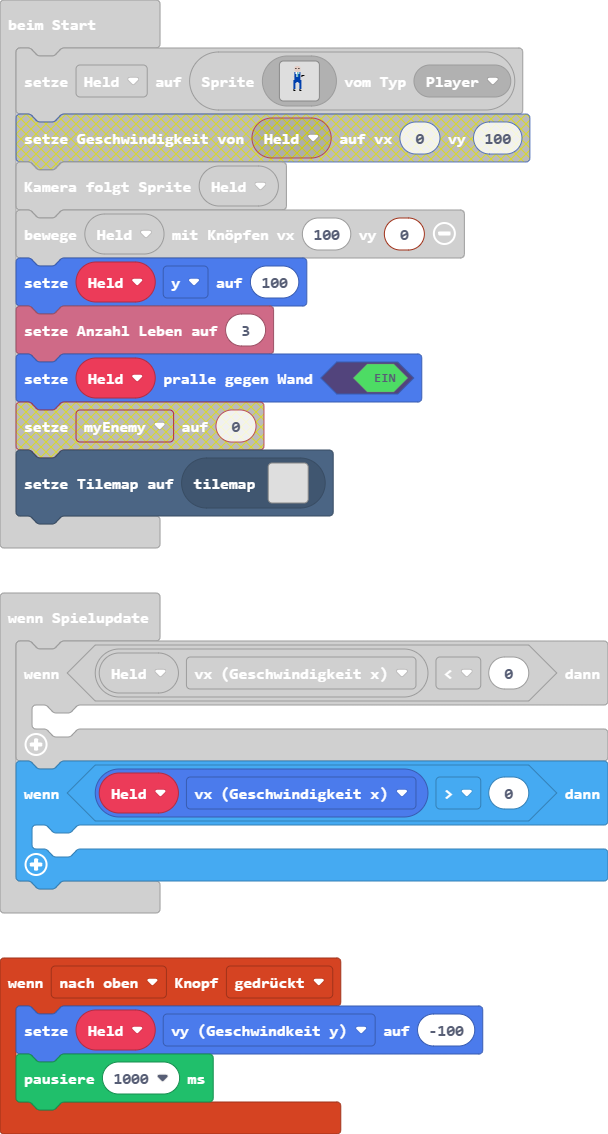
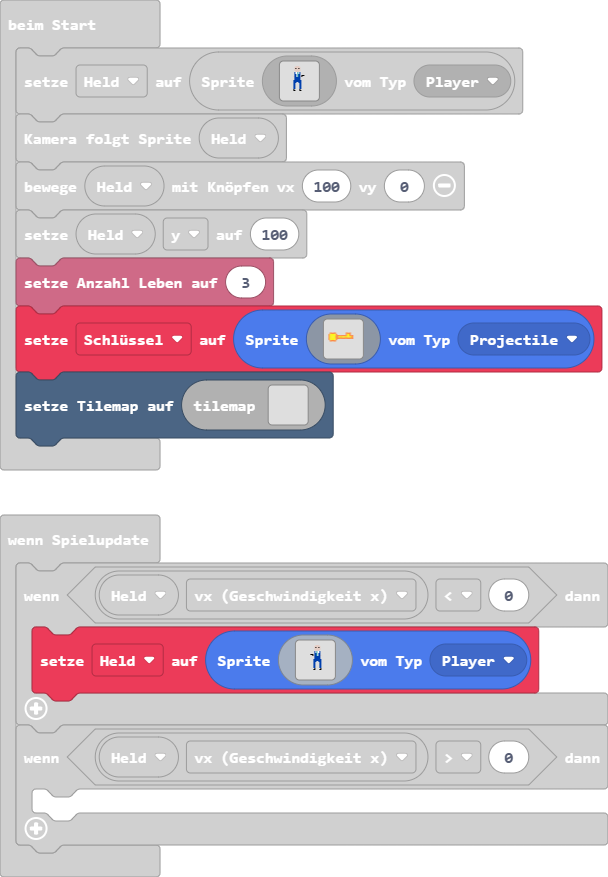
Aktualisiere main.blocks, main.ts, tilemap.g.jres, tilemap.g.ts

diff --git a/tilemap.g.ts b/tilemap.g.ts
@@ -218,6 +218,82 @@ namespace myTiles {
 . . . . . . . . . . . . . . . . 
 . . . . . . . . . . . . . . . . 
 `, [myTiles.transparency16], TileScale.Sixteen);
+            case "Level12":
+            case "Level12":return tiles.createTilemap(hex`1000100000000000000000000000000000000000000000000000000000000000000000000000000000000000000000000000000000000000000000000000000000000000000000000000000000000000000000000000000000000000000000000000000000000000000000000000000000000000000000000000000000000000000000000000000000000000000000000000000000000000000000000000000000000000000000000000000000000000000000000000000000000000000000000000000000000000000000000000000000000000000000000000000000000000000000000000000000000000000000000000000000000000000000000000000000000000`, img`
+. . . . . . . . . . . . . . . . 
+. . . . . . . . . . . . . . . . 
+. . . . . . . . . . . . . . . . 
+. . . . . . . . . . . . . . . . 
+. . . . . . . . . . . . . . . . 
+. . . . . . . . . . . . . . . . 
+. . . . . . . . . . . . . . . . 
+. . . . . . . . . . . . . . . . 
+. . . . . . . . . . . . . . . . 
+. . . . . . . . . . . . . . . . 
+. . . . . . . . . . . . . . . . 
+. . . . . . . . . . . . . . . . 
+. . . . . . . . . . . . . . . . 
+. . . . . . . . . . . . . . . . 
+. . . . . . . . . . . . . . . . 
+. . . . . . . . . . . . . . . . 
+`, [myTiles.transparency16], TileScale.Sixteen);
+            case "Level13":
+            case "Level13":return tiles.createTilemap(hex`1000100000000000000000000000000000000000000000000000000000000000000000000000000000000000000000000000000000000000000000000000000000000000000000000000000000000000000000000000000000000000000000000000000000000000000000000000000000000000000000000000000000000000000000000000000000000000000000000000000000000000000000000000000000000000000000000000000000000000000000000000000000000000000000000000000000000000000000000000000000000000000000000000000000000000000000000000000000000000000000000000000000000000000000000000000000000000`, img`
+. . . . . . . . . . . . . . . . 
+. . . . . . . . . . . . . . . . 
+. . . . . . . . . . . . . . . . 
+. . . . . . . . . . . . . . . . 
+. . . . . . . . . . . . . . . . 
+. . . . . . . . . . . . . . . . 
+. . . . . . . . . . . . . . . . 
+. . . . . . . . . . . . . . . . 
+. . . . . . . . . . . . . . . . 
+. . . . . . . . . . . . . . . . 
+. . . . . . . . . . . . . . . . 
+. . . . . . . . . . . . . . . . 
+. . . . . . . . . . . . . . . . 
+. . . . . . . . . . . . . . . . 
+. . . . . . . . . . . . . . . . 
+. . . . . . . . . . . . . . . . 
+`, [myTiles.transparency16], TileScale.Sixteen);
+            case "Level14":
+            case "Level14":return tiles.createTilemap(hex`1000100000000000000000000000000000000000000000000000000000000000000000000000000000000000000000000000000000000000000000000000000000000000000000000000000000000000000000000000000000000000000000000000000000000000000000000000000000000000000000000000000000000000000000000000000000000000000000000000000000000000000000000000000000000000000000000000000000000000000000000000000000000000000000000000000000000000000000000000000000000000000000000000000000000000000000000000000000000000000000000000000000000000000000000000000000000000`, img`
+. . . . . . . . . . . . . . . . 
+. . . . . . . . . . . . . . . . 
+. . . . . . . . . . . . . . . . 
+. . . . . . . . . . . . . . . . 
+. . . . . . . . . . . . . . . . 
+. . . . . . . . . . . . . . . . 
+. . . . . . . . . . . . . . . . 
+. . . . . . . . . . . . . . . . 
+. . . . . . . . . . . . . . . . 
+. . . . . . . . . . . . . . . . 
+. . . . . . . . . . . . . . . . 
+. . . . . . . . . . . . . . . . 
+. . . . . . . . . . . . . . . . 
+. . . . . . . . . . . . . . . . 
+. . . . . . . . . . . . . . . . 
+. . . . . . . . . . . . . . . . 
+`, [myTiles.transparency16], TileScale.Sixteen);
+            case "Level15":
+            case "Level15":return tiles.createTilemap(hex`1000100000000000000000000000000000000000000000000000000000000000000000000000000000000000000000000000000000000000000000000000000000000000000000000000000000000000000000000000000000000000000000000000000000000000000000000000000000000000000000000000000000000000000000000000000000000000000000000000000000000000000000000000000000000000000000000000000000000000000000000000000000000000000000000000000000000000000000000000000000000000000000000000000000000000000000000000000000000000000000000000000000000000000000000000000000000000`, img`
+. . . . . . . . . . . . . . . . 
+. . . . . . . . . . . . . . . . 
+. . . . . . . . . . . . . . . . 
+. . . . . . . . . . . . . . . . 
+. . . . . . . . . . . . . . . . 
+. . . . . . . . . . . . . . . . 
+. . . . . . . . . . . . . . . . 
+. . . . . . . . . . . . . . . . 
+. . . . . . . . . . . . . . . . 
+. . . . . . . . . . . . . . . . 
+. . . . . . . . . . . . . . . . 
+. . . . . . . . . . . . . . . . 
+. . . . . . . . . . . . . . . . 
+. . . . . . . . . . . . . . . . 
+. . . . . . . . . . . . . . . . 
+. . . . . . . . . . . . . . . . 
+`, [myTiles.transparency16], TileScale.Sixteen);
         }
         return null;
     })

diff --git a/main.ts b/main.ts
@@ -69,11 +69,61 @@ scene.cameraFollowSprite(Held)
 controller.moveSprite(Held, 100, 0)
 Held.y = 100
 info.setLife(3)
-Held.setBounceOnWall(true)
+let Schlüssel = sprites.create(img`
+    ..........................
+    ..........................
+    ..........................
+    ..44444........4444.......
+    .4555554.......4554.......
+    .45555544444444455444.....
+    .45555544555555555554.....
+    .45555544444444444444.....
+    .4555554..................
+    ..44444...................
+    ..........................
+    ..........................
+    ..........................
+    ..........................
+    ..........................
+    ..........................
+    `, SpriteKind.Projectile)
 tiles.setCurrentTilemap(tilemap`Level8`)
 game.onUpdate(function () {
     if (Held.vx < 0) {
-    	
+        Held = sprites.create(img`
+            ................................
+            ................dddd............
+            ...............dddddd...........
+            ...............dfddfd...........
+            ...............dddddd...........
+            ...............dddddd...........
+            ................dddd............
+            ...............816118...........
+            ...............816118...........
+            ...............886188...........
+            ...........fff.886188...........
+            .............fd886188d..........
+            ...............888888...........
+            ...............888888...........
+            ...............888888...........
+            ..............88888888..........
+            ..............88888888..........
+            ..............888..888..........
+            ..............88....88..........
+            ..............88....88..........
+            ..............88....88..........
+            ..............88....88..........
+            ..............88....88..........
+            ..............88....88..........
+            ...............f.....f..........
+            ..............ff....ff..........
+            ................................
+            ................................
+            ................................
+            ................................
+            ................................
+            ................................
+            `, SpriteKind.Player)
     }
     if (Held.vx > 0) {
     	
